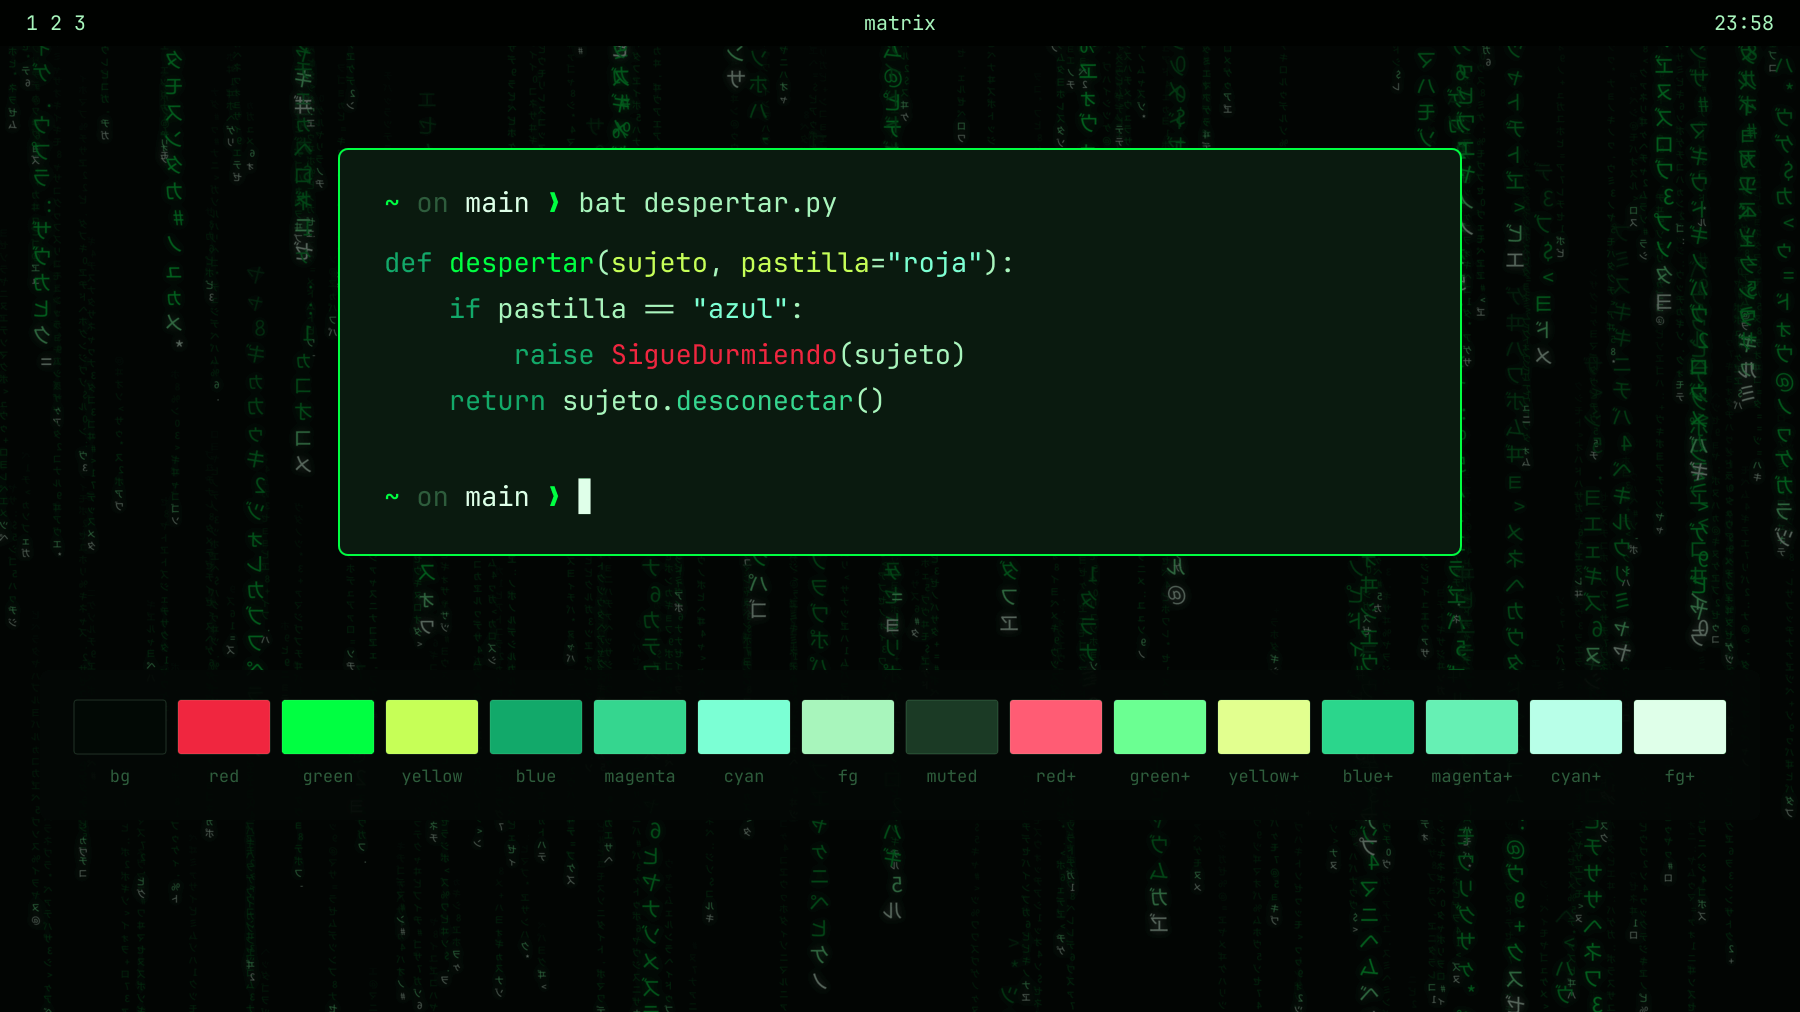
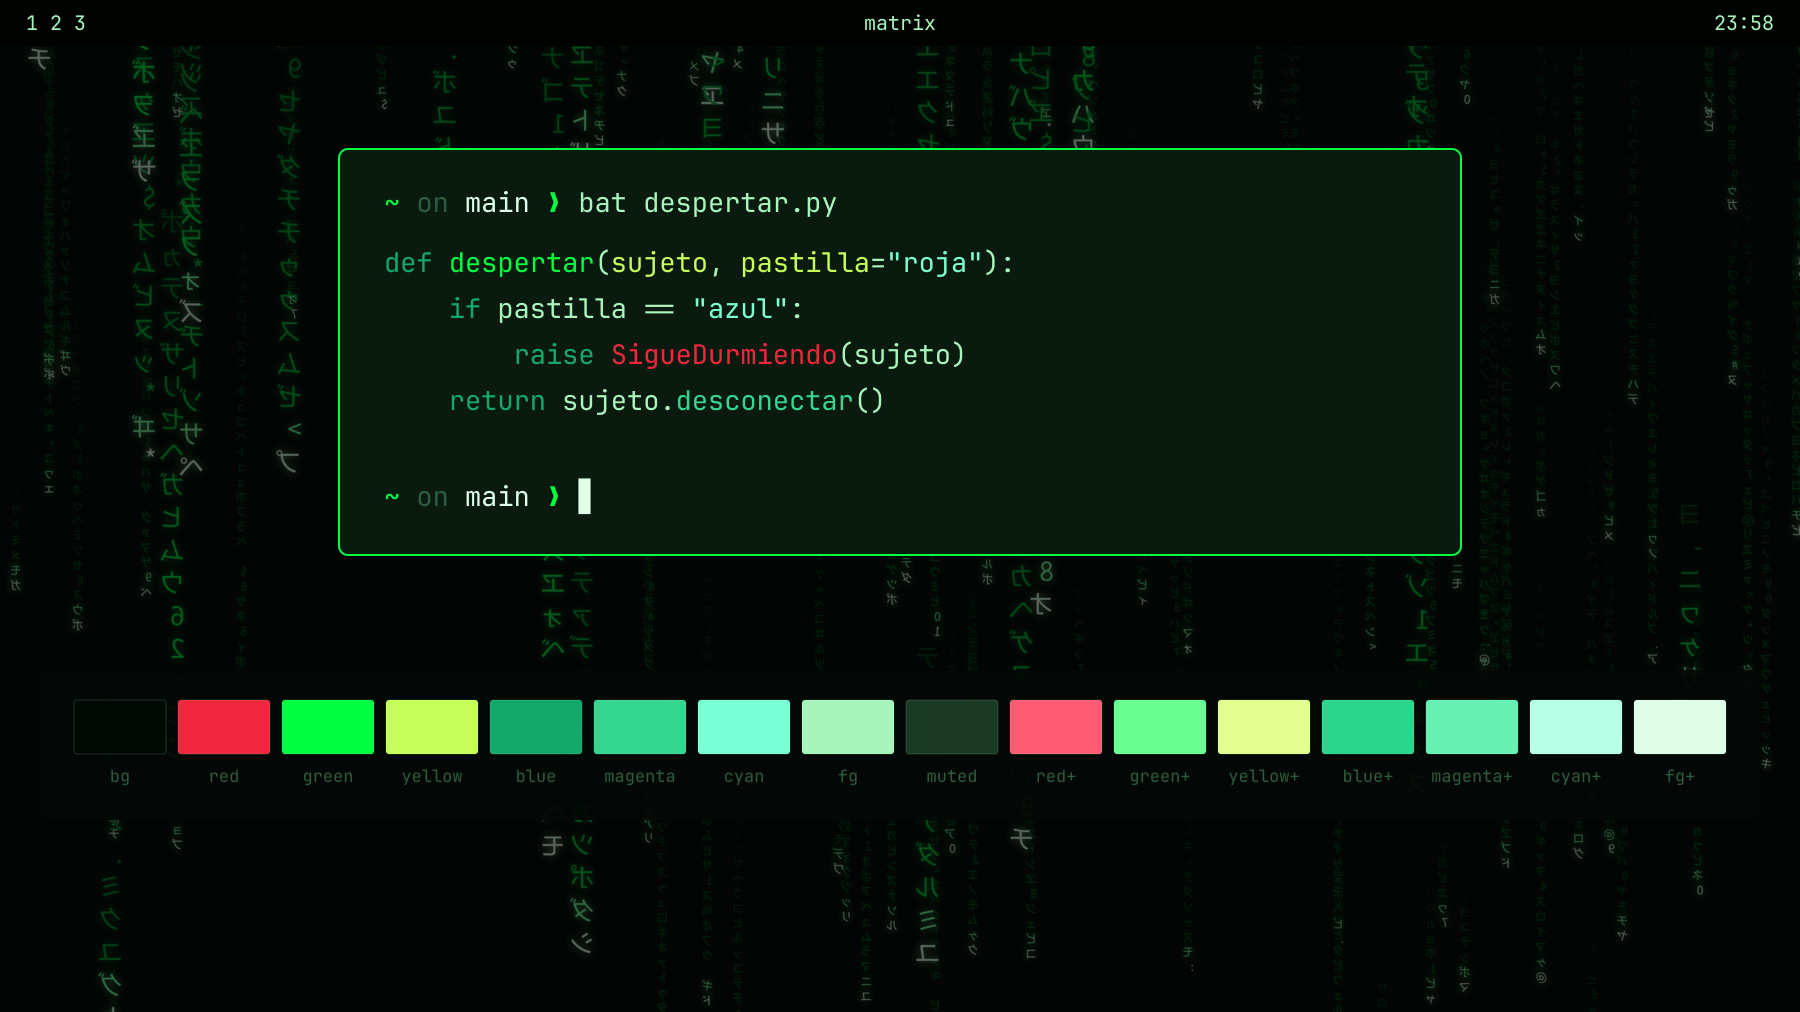
Quitar los tres fondos estaticos; queda solo el del fondo vivo
Del carrusel sobraban: con la lluvia animada puesta, los tres PNG estaticos de
lluvia eran lo mismo pero quieto, y sumaban ~2 MB al repo.

0-lluvia-viva.png se queda porque NO es decorativo: es el marcador que enciende
el shader. cyberdyne.background comprueba el nombre del fondo seleccionado y,
cuando es ese, monta MatrixRain en vez de la imagen. Ademas hace de miniatura en
el carrusel y de reserva si el shader no cargase.

Arrastra los dos generadores: PRESETS de generar-fondos.py se queda con ese
unico preset (con --out se siguen sacando sueltos), y generar-marca.py componia
preview.png sobre 1-lluvia-densa.png, que ya no existe.

diff --git a/generar-marca.py b/generar-marca.py
@@ -13,7 +13,7 @@
                         el fondo de lluvia con una ventana de terminal y la
                         paleta debajo.
 
-Depende de rsvg-convert e ImageMagick, y de backgrounds/1-lluvia-densa.png
+Depende de rsvg-convert e ImageMagick, y de backgrounds/0-lluvia-viva.png
 (lo genera generar-fondos.py).
 """
 
@@ -214,9 +214,9 @@ def main():
     subprocess.run(["magick", pu, "-strip", "-dither", "None", "-colors", "256", pu], check=True)
     print(f"  preview-unlock.png  {os.path.getsize(pu) // 1024} KB")
 
-    fondo = os.path.join(AQUI, "backgrounds", "1-lluvia-densa.png")
+    fondo = os.path.join(AQUI, "backgrounds", "0-lluvia-viva.png")
     if not os.path.exists(fondo):
-        print("  ! falta backgrounds/1-lluvia-densa.png: corre antes generar-fondos.py",
+        print("  ! falta backgrounds/0-lluvia-viva.png: corre antes generar-fondos.py",
               file=sys.stderr)
         return 1
     with tempfile.NamedTemporaryFile(suffix=".png", delete=False) as fh:

diff --git a/generar-fondos.py b/generar-fondos.py
@@ -132,11 +132,13 @@ def construir(semilla, densidad, escala, salida, espejo=True):
     print(f"  {salida}  {os.path.getsize(salida) // 1024} KB")
 
 
-# semilla, densidad, escala de glifo
+# semilla, densidad, escala de glifo.
+# Solo queda el fotograma del fondo vivo: es la miniatura que sale en el
+# carrusel y el marcador que enciende el shader de lluvia (ver lluvia/). Los
+# tres fondos estaticos que habia aqui se quitaron el 2026-08-24; con --out se
+# siguen sacando sueltos.
 PRESETS = {
-    "1-lluvia-densa": (7, 0.85, 1.0),
-    "2-lluvia-suave": (23, 0.42, 1.15),
-    "3-cascada":      (61, 0.70, 1.45),
+    "0-lluvia-viva": (3, 0.55, 1.25),
 }
 
 

diff --git a/README.md b/README.md
@@ -41,7 +41,7 @@ omarchy plymouth set matrix
 |---|---|
 | `colors.toml` | La paleta. Semántica, no `color0..15`. |
 | `shell.{bar,menu,launcher,notifications}.toml` | Overrides de sección de la shell: dan relieve a barra y tarjetas, que si no pintan todas del mismo negro. |
-| `backgrounds/` | Cuatro fondos a 3840×2400. |
+| `backgrounds/` | El fotograma del fondo vivo, a 3840×2400. Sirve de miniatura en el carrusel y de marcador: al elegirlo se enciende la lluvia animada. |
 | `unlock.png`, `preview-unlock.png` | Marca del splash de Plymouth. |
 | `lluvia/` | La lluvia animada: shader, atlas de glifos y los QML de los dos plugins. |
 | `generar-fondos.py`, `generar-marca.py` | Regeneran los PNG. Ninguno es un binario intocable. |
